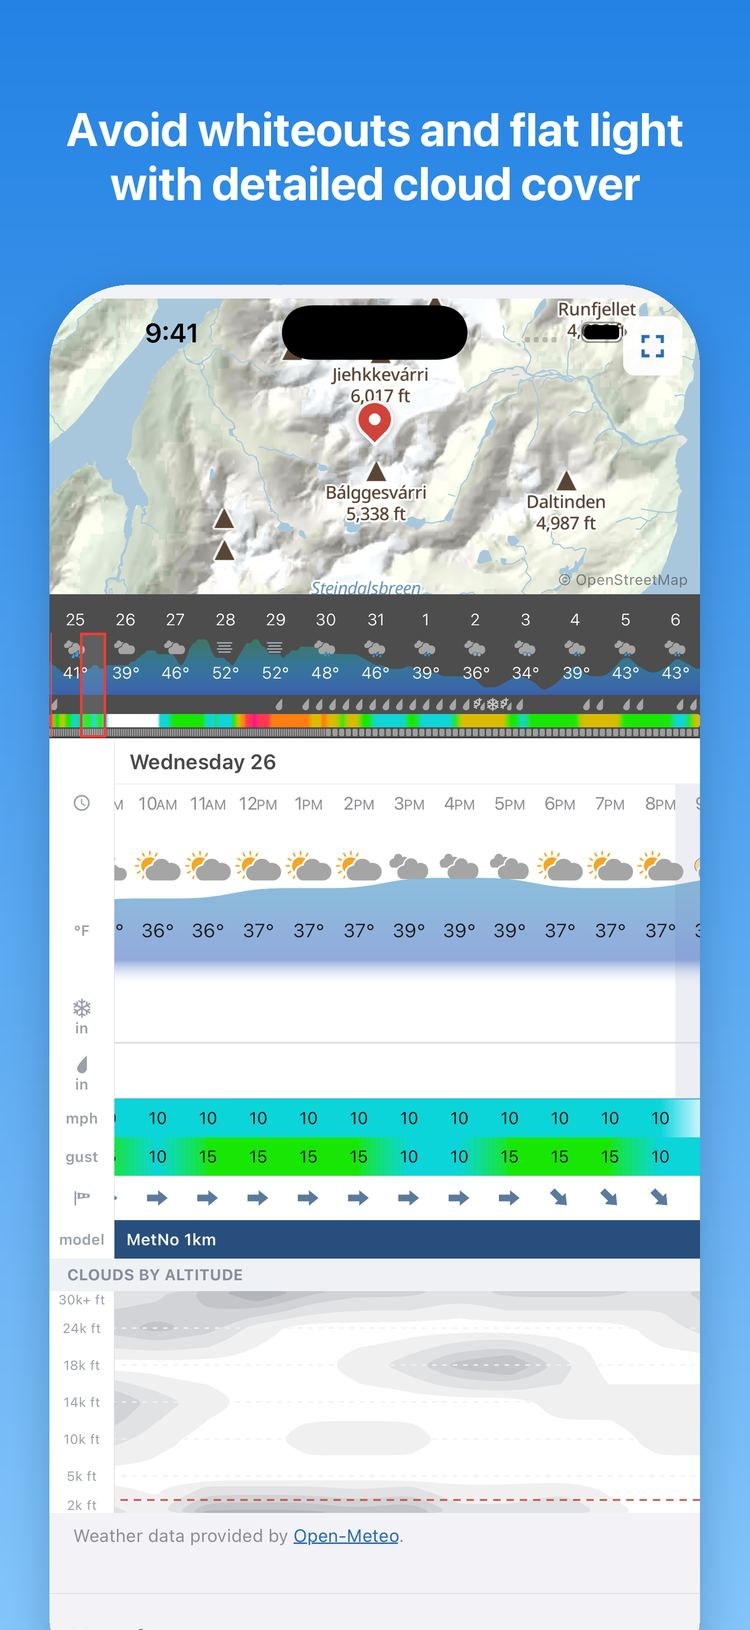
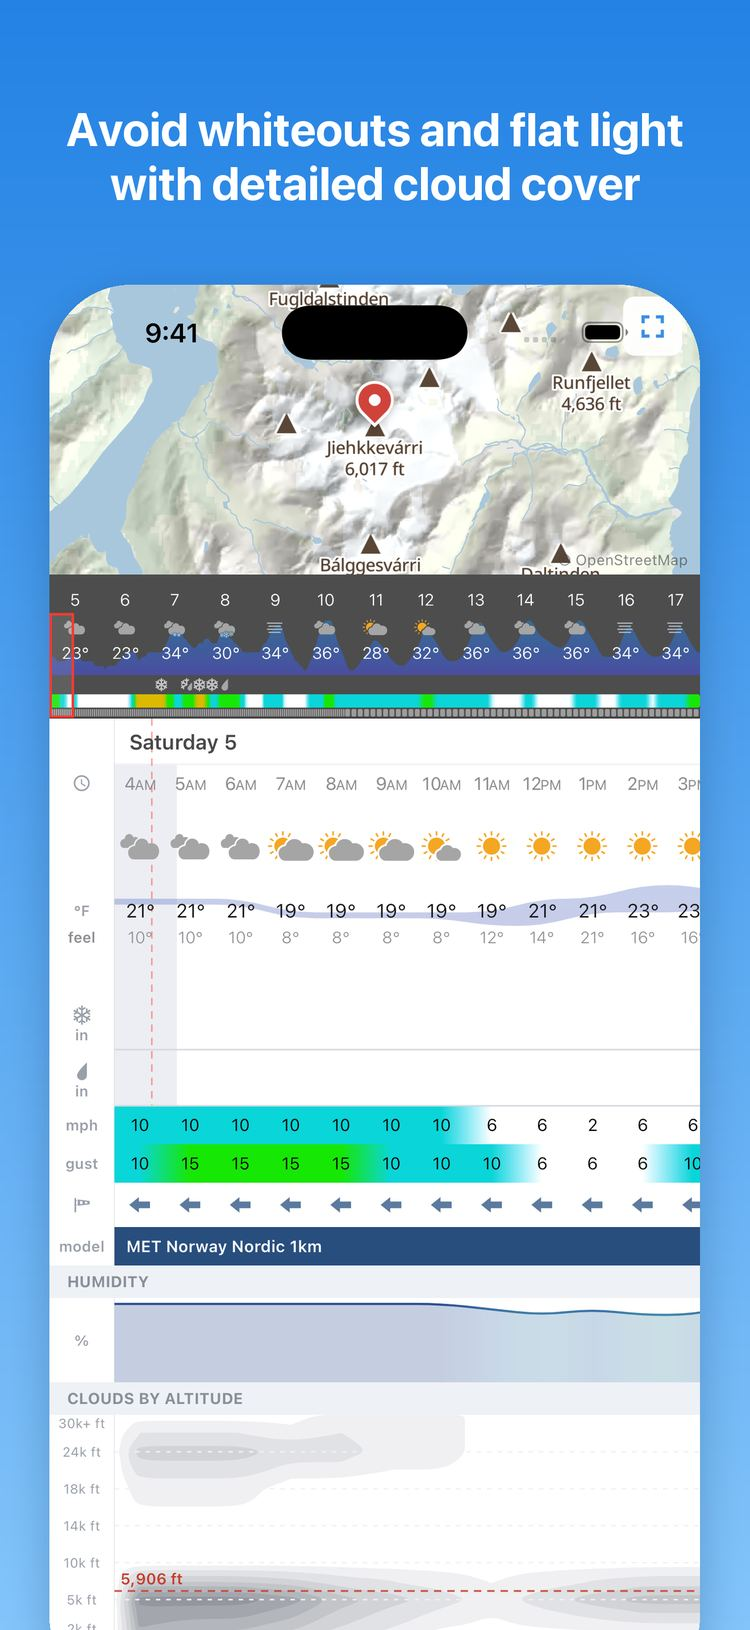
Update screenshots on the website

diff --git a/packages/server/src/pages/landing.ts b/packages/server/src/pages/landing.ts
@@ -203,31 +203,24 @@ or iPhone satellite messaging.</p>
 
 <div class=shots>
   <figure>
-    <img src="${img("shot-mont-blanc.jpg")}" width=750 height=1630 loading=lazy
-      alt="&ldquo;Detailed forecasts up to 13 days without cell reception&rdquo; — a thirteen-day
-      Mont Blanc forecast, with hourly weather icons, temperature, snow, wind and gusts below it.">
+    <img src="${img("shot-overview.jpg")}" width=750 height=1630 loading=lazy
+      alt="Expedition weather forecasts via inReach, ZOLEO, and iPhone satellite">
   </figure>
   <figure>
-    <img src="${img("shot-builder.jpg")}" width=750 height=1630 loading=lazy
-      alt="&ldquo;30+ weather models over SMS, inReach, ZOLEO, and iPhone satellite&rdquo; — the
-      forecast request builder, with location, priority, model and extra-variable choices above a
-      device picker.">
-  </figure>
-  <figure>
-    <img src="${img("shot-denali.jpg")}" width=750 height=1630 loading=lazy
-      alt="&ldquo;High-altitude winds and freezing level forecasts for mountaineering&rdquo; — a
-      Denali forecast showing freezing level and winds at 10, 14, 18 and 24 thousand feet.">
+    <img src="${img("shot-altitude.jpg")}" width=750 height=1630 loading=lazy
+      alt="High-altitude winds and freezing level forecasts for mountaineering">
   </figure>
   <figure>
     <img src="${img("shot-cloud.jpg")}" width=750 height=1630 loading=lazy
-      alt="&ldquo;Avoid whiteouts and flat light with detailed cloud cover&rdquo; — a forecast in
-      Norway's Lyngen Alps with a clouds-by-altitude band from two to thirty thousand feet.">
+      alt="Avoid whiteouts and flat light with detailed cloud cover">
   </figure>
   <figure>
-    <img src="${img("shot-air-quality.jpg")}" width=750 height=1630 loading=lazy
-      alt="&ldquo;Plan around wildfire smoke with air quality forecasts&rdquo; — a forecast with an
-      air quality section listing AQI, the leading pollutant, and rows for PM2.5, PM10, ozone,
-      nitrogen dioxide and sulfur dioxide.">
+    <img src="${img("shot-aqi.jpg")}" width=750 height=1630 loading=lazy
+      alt="Plan around wildfire smoke with AQI forecasts">
+  </figure>
+  <figure>
+    <img src="${img("shot-agreement.jpg")}" width=750 height=1630 loading=lazy
+      alt="Compare forecasts from NOAA, ECMWF, GEM, and ICON models">
   </figure>
 </div>
 

diff --git a/packages/server/src/assets.ts b/packages/server/src/assets.ts
@@ -49,11 +49,11 @@ const ASSETS: Record<string, { file: string; type: string }> = {
   // Resized to 750px wide, which keeps them past 2x at the widest the strip draws them. They are
   // JPEG, not PNG, because the masters are 4x the weight for UI text nobody reads at strip size;
   // keep the App Store listing on the PNG masters.
-  "shot-mont-blanc.jpg": { file: "../public/shot-mont-blanc.jpg", type: "image/jpeg" },
-  "shot-builder.jpg": { file: "../public/shot-builder.jpg", type: "image/jpeg" },
-  "shot-denali.jpg": { file: "../public/shot-denali.jpg", type: "image/jpeg" },
+  "shot-overview.jpg": { file: "../public/shot-overview.jpg", type: "image/jpeg" },
+  "shot-altitude.jpg": { file: "../public/shot-altitude.jpg", type: "image/jpeg" },
   "shot-cloud.jpg": { file: "../public/shot-cloud.jpg", type: "image/jpeg" },
-  "shot-air-quality.jpg": { file: "../public/shot-air-quality.jpg", type: "image/jpeg" },
+  "shot-aqi.jpg": { file: "../public/shot-aqi.jpg", type: "image/jpeg" },
+  "shot-agreement.jpg": { file: "../public/shot-agreement.jpg", type: "image/jpeg" },
   // Apple's "Download on the App Store" badge, the white US/UK artwork, byte-for-byte as served by
   // toolbox.marketingtools.apple.com/api/v2/badges/download-on-the-app-store/white/en-us. White
   // because the button sits in the photo band, which Apple's guidelines count as a dark background;

diff --git a/.agents/skills/screenshots/SKILL.md b/.agents/skills/screenshots/SKILL.md
@@ -86,3 +86,7 @@ Tips:
 # Regenerating seeded data
 
 Each shot's weather is recorded once from live Open-Meteo and replayed through the current codec at seed time, so a codec change never needs a re-record. Re-record one shot with `pnpm record-shot <name>` or all of them with pnpm record-shot --all. Shots are defined in `screenshots/shots.mts`. Add a new shot at the end of the table, since a request's message code is its position and moving earlier shots invalidates their recordings. After recording, run `pnpm test` to confirm every fixture replays, then seed again with step 3.
+
+# Website screenshots
+
+The landing page also shows a copy of the framed iOS screenshots. Update it at `packages/server/public` after regenerating screenshots.
